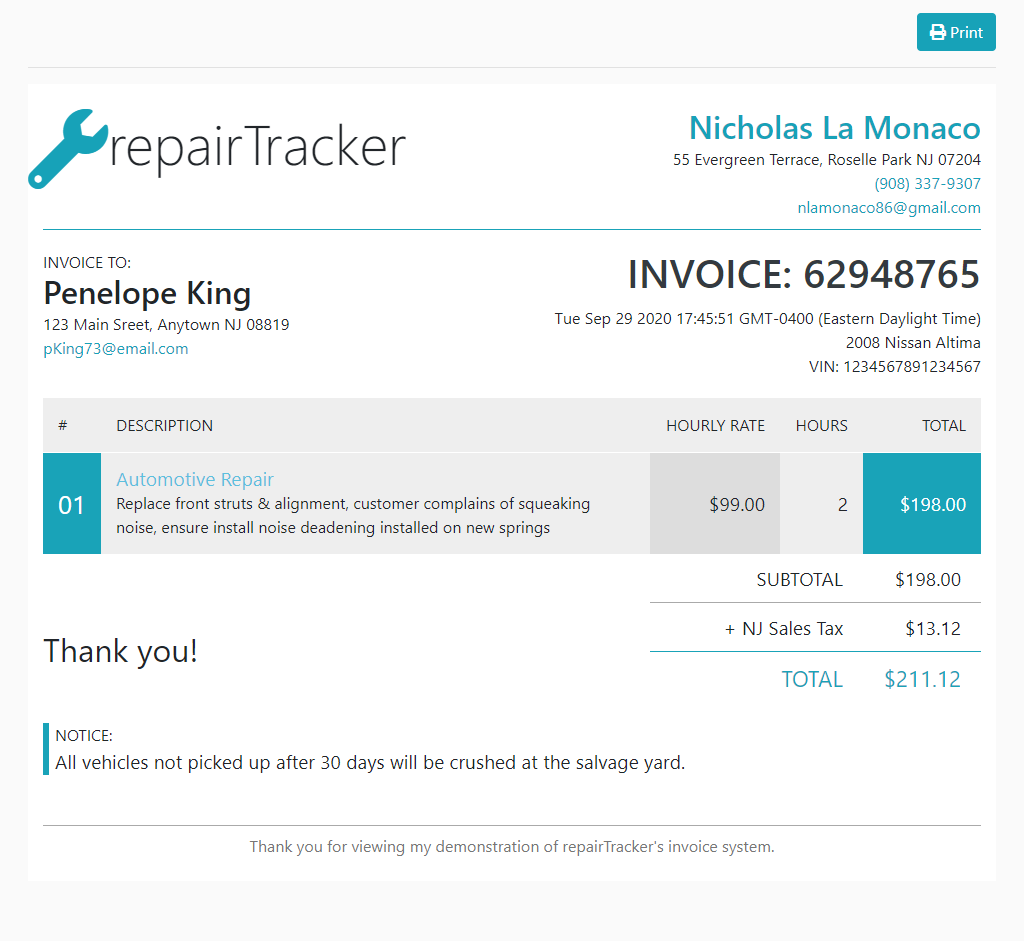
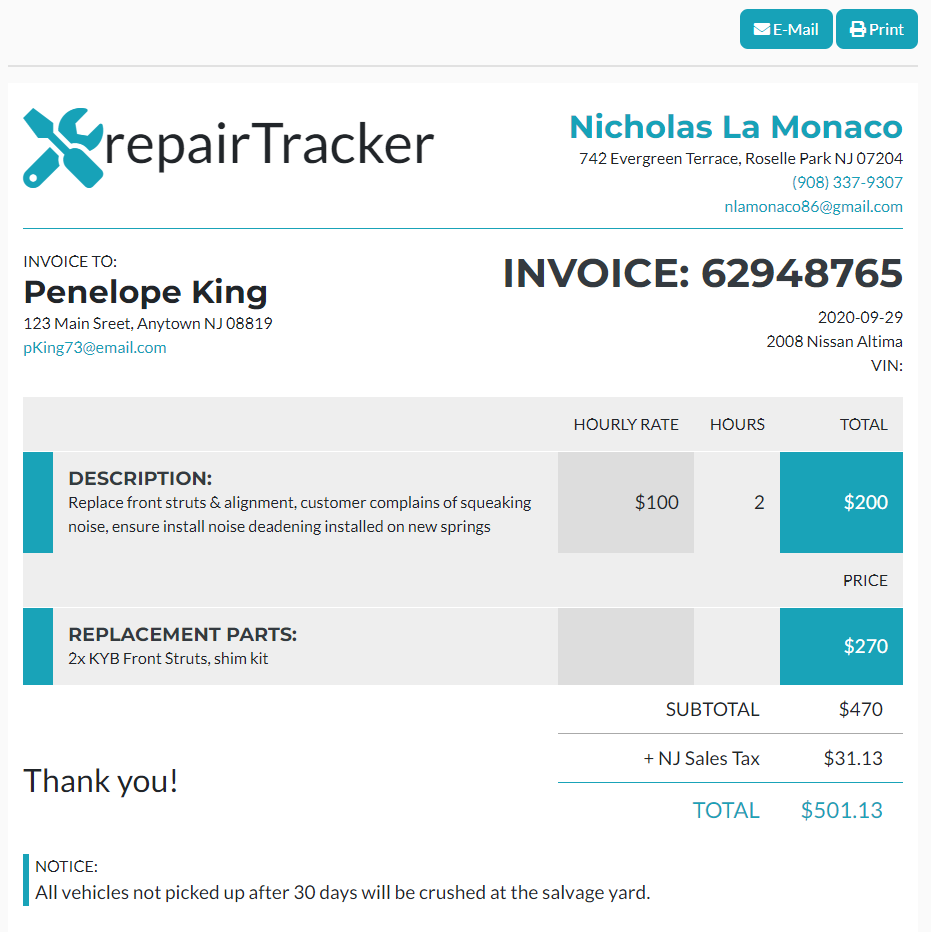
invoice calculates actual tax, total, etc.

diff --git a/config/order.js b/config/order.js
@@ -8,7 +8,7 @@ const promQuery = util.promisify(connection.query).bind(connection);
 const order = {
   all: function (cb) {
     //Performs a LEFT OUTER JOIN of Customers and Orders, based on matching OrderId
-    promQuery("SELECT `Order`.`id`, `Order`.`year`, `Order`.`make`, `Order`.`model`, `Order`.`vin`, `Order`.`color`, `Order`.`issue`, `Order`.`photo`, `Order`.`received`, `Order`.`waiting`, `Order`.`inProgress`, `Order`.`complete`, `Order`.`paid`, `Order`.`inView`, SUBSTRING(`Order`.`createdAt`, 1, 10) AS `createdAt`, `Order`.`updatedAt`, `Order`.`id` AS `id`, `Customer`.`firstName` AS `firstName`, `Customer`.`lastName` AS `lastName`, `Customer`.`tel` AS `tel`, `Customer`.`email` AS `email`, `Customer`.`addr1` AS `addr1`, `Customer`.`addr2` AS `addr2`, `Customer`.`city` AS `city`, `Customer`.`state` AS `state`, `Customer`.`zip` AS `zip` FROM `Orders` AS `Order` LEFT OUTER JOIN `Customers` AS `Customer` ON `Order`.`id` = `Customer`.`OrderId` ORDER BY `lastName`", function (err, result) {
+    promQuery("SELECT `Order`.`id`, `Order`.`hours`, `Order`.`rate`, `Order`.`hours` * `Order`.`rate` AS `laborTotal`, `Order`.`partsPrice`, `Order`.`partsNeeded`, `Order`.`year`, `Order`.`make`, `Order`.`model`, `Order`.`vin`, `Order`.`color`, `Order`.`issue`, `Order`.`photo`, `Order`.`received`, `Order`.`waiting`, `Order`.`inProgress`, `Order`.`complete`, `Order`.`paid`, `Order`.`inView`, SUBSTRING(`Order`.`createdAt`, 1, 10) AS `createdAt`, `Order`.`updatedAt`, `Order`.`id` AS `id`, `Customer`.`firstName` AS `firstName`, `Customer`.`lastName` AS `lastName`, `Customer`.`tel` AS `tel`, `Customer`.`email` AS `email`, `Customer`.`addr1` AS `addr1`, `Customer`.`addr2` AS `addr2`, `Customer`.`city` AS `city`, `Customer`.`state` AS `state`, `Customer`.`zip` AS `zip` FROM `Orders` AS `Order` LEFT OUTER JOIN `Customers` AS `Customer` ON `Order`.`id` = `Customer`.`OrderId` ORDER BY `lastName`", function (err, result) {
       if (err) throw err;
       cb(result);
     });
@@ -17,7 +17,7 @@ const order = {
     //Performs a LEFT OUTER JOIN of Customers and Orders, based on matching OrderId
     // This combines the Customer.x keys into the main object i.e. Customer.firstName just becomes firstName, however, due to Handlebars security not allowing 
     // objects within objects to be accessed 
-    promQuery("SELECT `Order`.`id`, `Order`.`year`, `Order`.`make`, `Order`.`model`, `Order`.`vin`, `Order`.`color`, `Order`.`issue`, `Order`.`photo`, `Order`.`received`, `Order`.`waiting`, `Order`.`inProgress`, `Order`.`complete`, `Order`.`paid`, `Order`.`inView`, SUBSTRING(`Order`.`createdAt`, 1, 10) AS `createdAt`, `Order`.`updatedAt`, `Customer`.`id` AS `CustomerId`, `Customer`.`firstName` AS `firstName`, `Customer`.`lastName` AS `lastName`, `Customer`.`tel` AS `tel`, `Customer`.`email` AS `email`, `Customer`.`addr1` AS `addr1`, `Customer`.`addr2` AS `addr2`, `Customer`.`city` AS `city`, `Customer`.`state` AS `state`, `Customer`.`zip` AS `zip` FROM `Orders` AS `Order` LEFT OUTER JOIN `Customers` AS `Customer` ON `Order`.`id` = `Customer`.`OrderId` WHERE `Order`.`id` = ?", val, function (err, result) {
+    promQuery("SELECT `Order`.`id`, `Order`.`hours`, `Order`.`rate`, TRUNCATE(`Order`.`hours` * `Order`.`rate`, 2) AS `laborTotal`, TRUNCATE(SUM(`Order`.`hours` * `Order`.`rate` + `Order`.`partsPrice`), 2) AS `subTotal`, TRUNCATE(SUM(`Order`.`hours` * `Order`.`rate` + `Order`.`partsPrice`) * .06625, 2) AS `salesTax`, TRUNCATE(SUM(`Order`.`hours` * `Order`.`rate` + `Order`.`partsPrice`) * 1.06625, 2) AS `total`, `Order`.`partsPrice`, `Order`.`partsNeeded`, `Order`.`year`, `Order`.`make`, `Order`.`model`, `Order`.`vin`, `Order`.`color`, `Order`.`issue`, `Order`.`photo`, `Order`.`received`, `Order`.`waiting`, `Order`.`inProgress`, `Order`.`complete`, `Order`.`paid`, `Order`.`inView`, SUBSTRING(`Order`.`createdAt`, 1, 10) AS `createdAt`, `Order`.`updatedAt`, `Customer`.`id` AS `CustomerId`, `Customer`.`firstName` AS `firstName`, `Customer`.`lastName` AS `lastName`, `Customer`.`tel` AS `tel`, `Customer`.`email` AS `email`, `Customer`.`addr1` AS `addr1`, `Customer`.`addr2` AS `addr2`, `Customer`.`city` AS `city`, `Customer`.`state` AS `state`, `Customer`.`zip` AS `zip` FROM `Orders` AS `Order` LEFT OUTER JOIN `Customers` AS `Customer` ON `Order`.`id` = `Customer`.`OrderId` WHERE `Order`.`id` = ?", val, function (err, result) {
       if (err) throw err;
       cb(result);
     });

diff --git a/models/order.js b/models/order.js
@@ -1,26 +1,38 @@
 // Order model
 module.exports = function (sequelize, DataTypes) {
   const Order = sequelize.define("Order", {
-      year: {
-        type: DataTypes.STRING,
-        allowNull: false
-      },
-      make: {
-        type: DataTypes.STRING,
-        allowNull: false
-      },
-      model: {
-        type: DataTypes.STRING,
-        allowNull: false
-      },
-     vin: {
-        type: DataTypes.STRING
-      },
-     color: {
-        type: DataTypes.STRING
-      },
-    issue: {
+    hours: {
+      type: DataTypes.INTEGER
+    },
+    rate: { 
+      type: DataTypes.INTEGER
+    },
+    partsPrice: {
+      type: DataTypes.INTEGER
+    },
+    partsNeeded: {
+      type: DataTypes.BLOB
+    },
+    year: {
       type: DataTypes.STRING,
+      allowNull: false
+    },
+    make: {
+      type: DataTypes.STRING,
+      allowNull: false
+    },
+    model: {
+      type: DataTypes.STRING,
+      allowNull: false
+    },
+    vin: {
+      type: DataTypes.STRING
+    },
+    color: {
+      type: DataTypes.STRING
+    },
+    issue: {
+      type: DataTypes.BLOB,
       allowNull: false
     },
     photo: {
